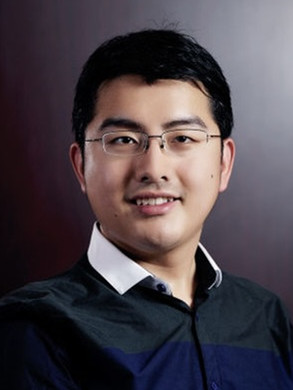
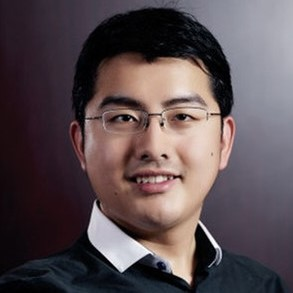
update

diff --git a/_includes/2020_data/organizers.html b/_includes/2020_data/organizers.html
@@ -11,11 +11,6 @@
             {% for post in site.data.twenty_20.organizers %}
                 <div class="col-md-4 col-sm-6 speakers-item">
                     <a href="{{ post.name }}" class="speakers-link" data-toggle="modal">
-                        <!-- <div class="speakers-hover">
-                            <div class="speakers-hover-content">
-                                <i class="fa fa-plus fa-3x"></i>
-                            </div>
-                        </div> -->
                         <img src="../css/2020_style/img/organizers/{{ post.thumbnail }}" class="img-centered img-rounded"  width="345px" height="345px"/>
                     </a>
                     <div class="speakers-caption">

diff --git a/_includes/2020_data/organizers_info.html b/_includes/2020_data/organizers_info.html
@@ -12,7 +12,7 @@
                     <div class="row">
                         <div class="col-md-4 speakers-item">
                             <a href="{{ post.name }}" class="speakers-link" data-toggle="modal">
-                                <img src="../css/2020_style/img/organizers/{{ post.thumbnail }}" class="img-responsive img-centered">
+                                <img src="../css/2020_style/img/organizers/{{ post.thumbnail }}" class="img-centered" width="345px" height="345px">
                             </a>
                             <div class="speakers-caption">
                                 <h4 align="center">{{ post.title }}</h4>

diff --git a/_includes/2020_data/programs.html b/_includes/2020_data/programs.html
@@ -7,8 +7,7 @@
                 </div>
             </div>
             <div class="row container">
-                <!-- <p>Topic; <a href="/2016">Link to 2016</a> 
-                </p> -->
+                <font size="10">
                 <p class="large text-center">
                     <ul>
                         <li>9:00 ~ 9:15 Welcome and opening</li>
@@ -23,6 +22,7 @@
                         <li>17:15 ~ 17:30&nbsp;Discussion and closing (10 min.)</li>
                     </ul>
                 </p>
+                </font>
                 
             </div>
         </div>

diff --git a/hcma2020/404.html b/hcma2020/404.html
@@ -1,0 +1,25 @@
+---
+permalink: /404.html
+layout: default
+---
+
+<style type="text/css" media="screen">
+  .container {
+    margin: 10px auto;
+    max-width: 600px;
+    text-align: center;
+  }
+  h1 {
+    margin: 30px 0;
+    font-size: 4em;
+    line-height: 1;
+    letter-spacing: -1px;
+  }
+</style>
+
+<div class="container">
+  <h1>404</h1>
+
+  <p><strong>Page not found :(</strong></p>
+  <p>The requested page could not be found.</p>
+</div>

diff --git a/_includes/2020_data/news.html b/_includes/2020_data/news.html
@@ -8,7 +8,7 @@
             </div>
             <div class="text-center " >
                 <font size="10">
-                <p class='text-center'  align="center">
+                <p>
                     <li><strong>2020/03/09:</strong>The website is available</li>
                 </p>
                 </font>
